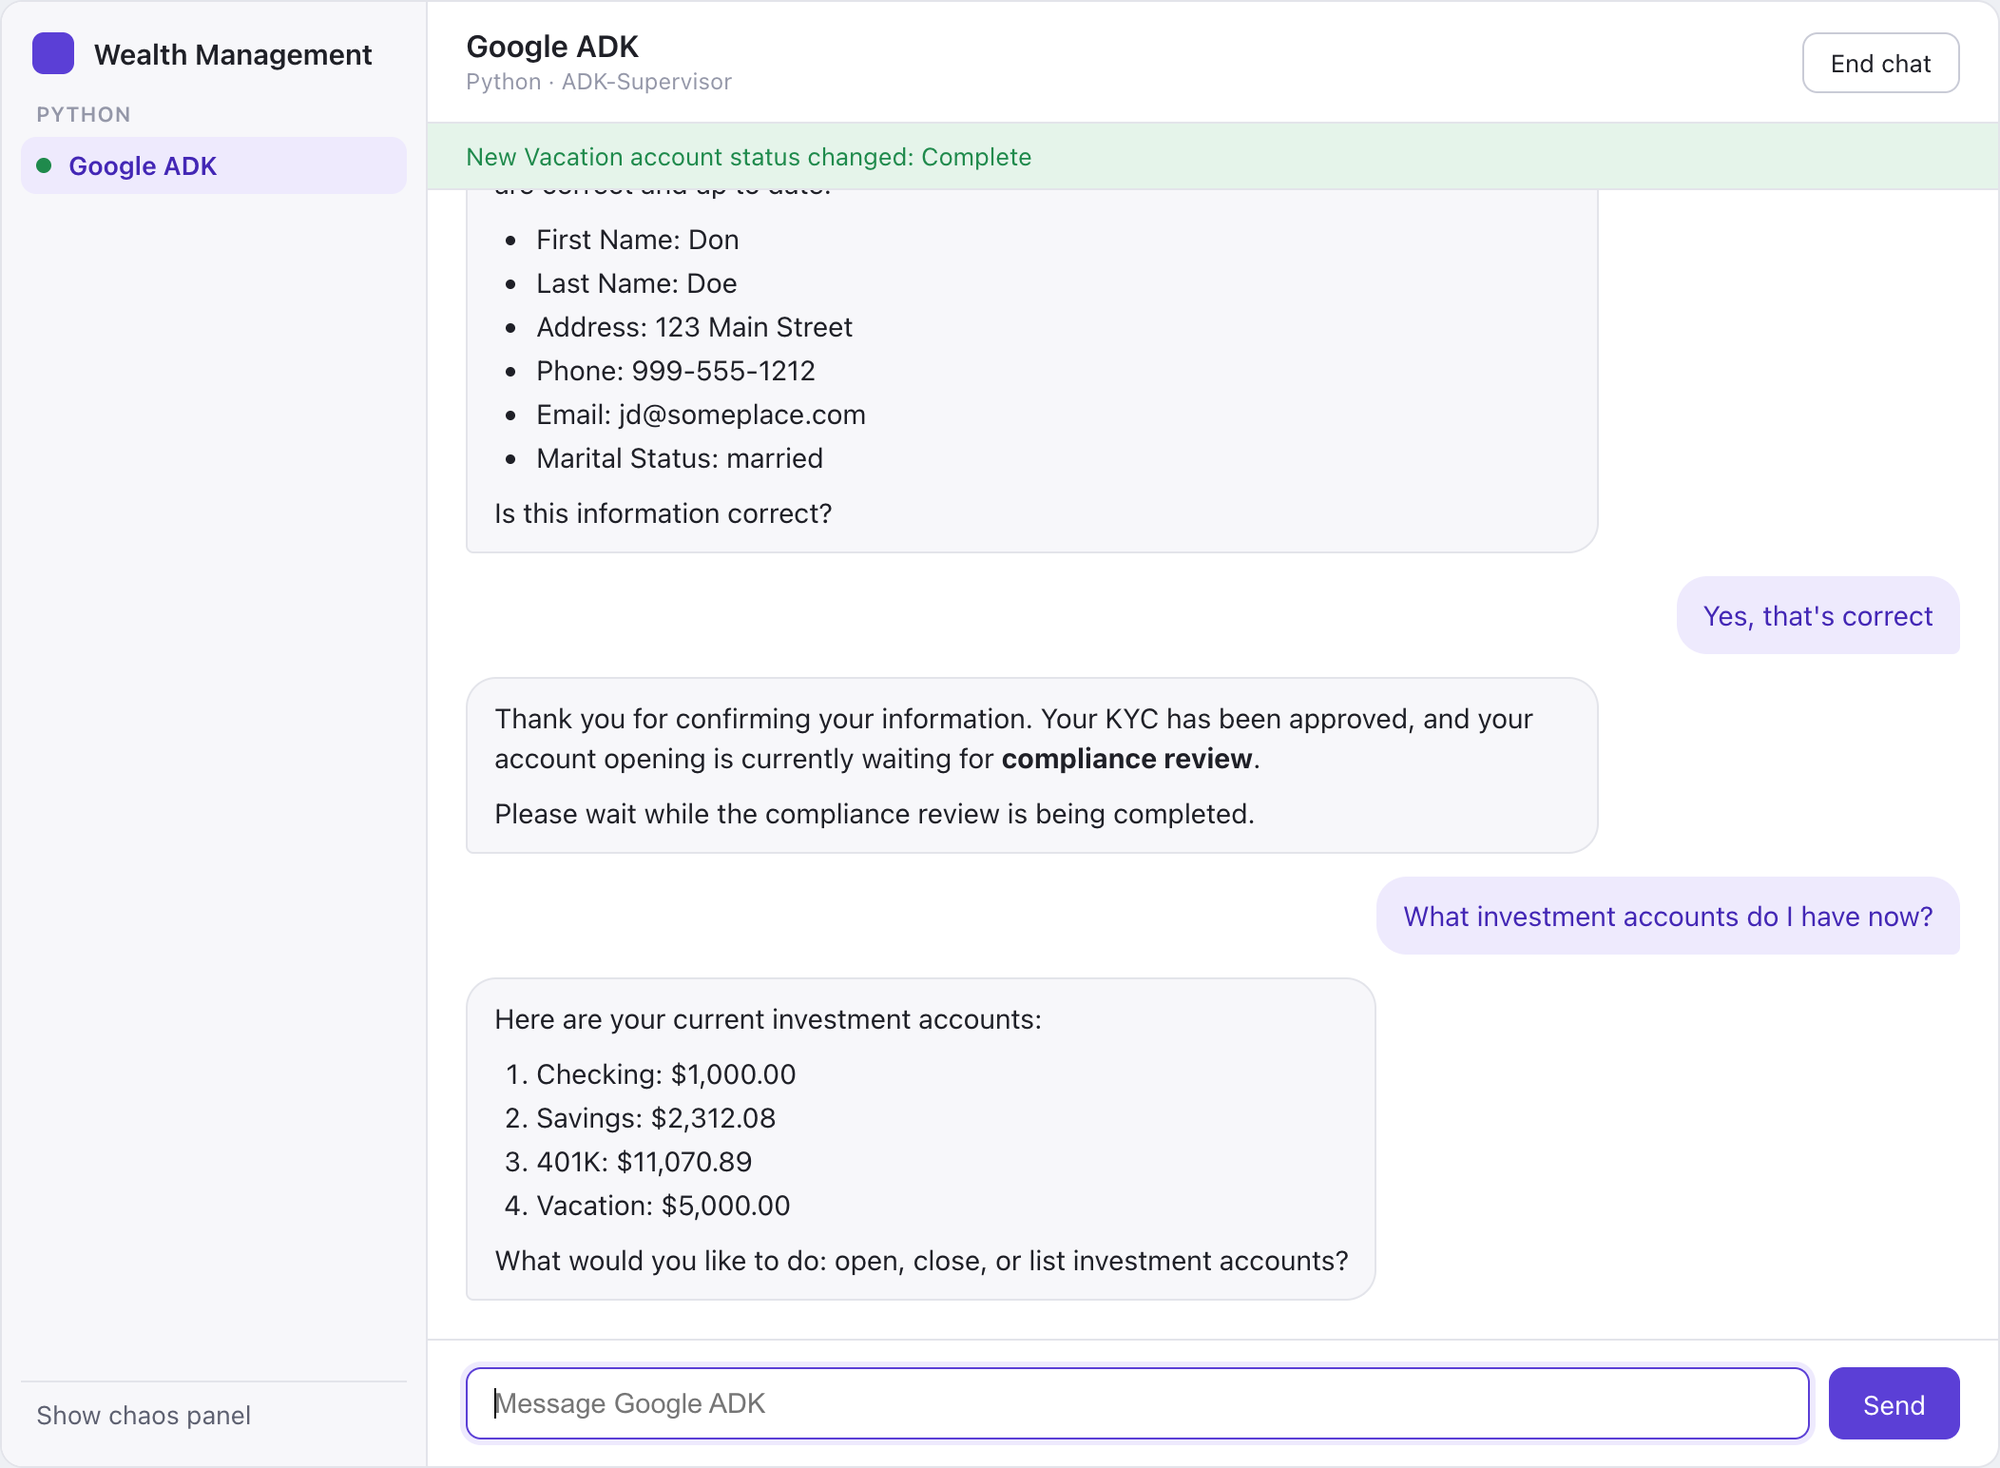
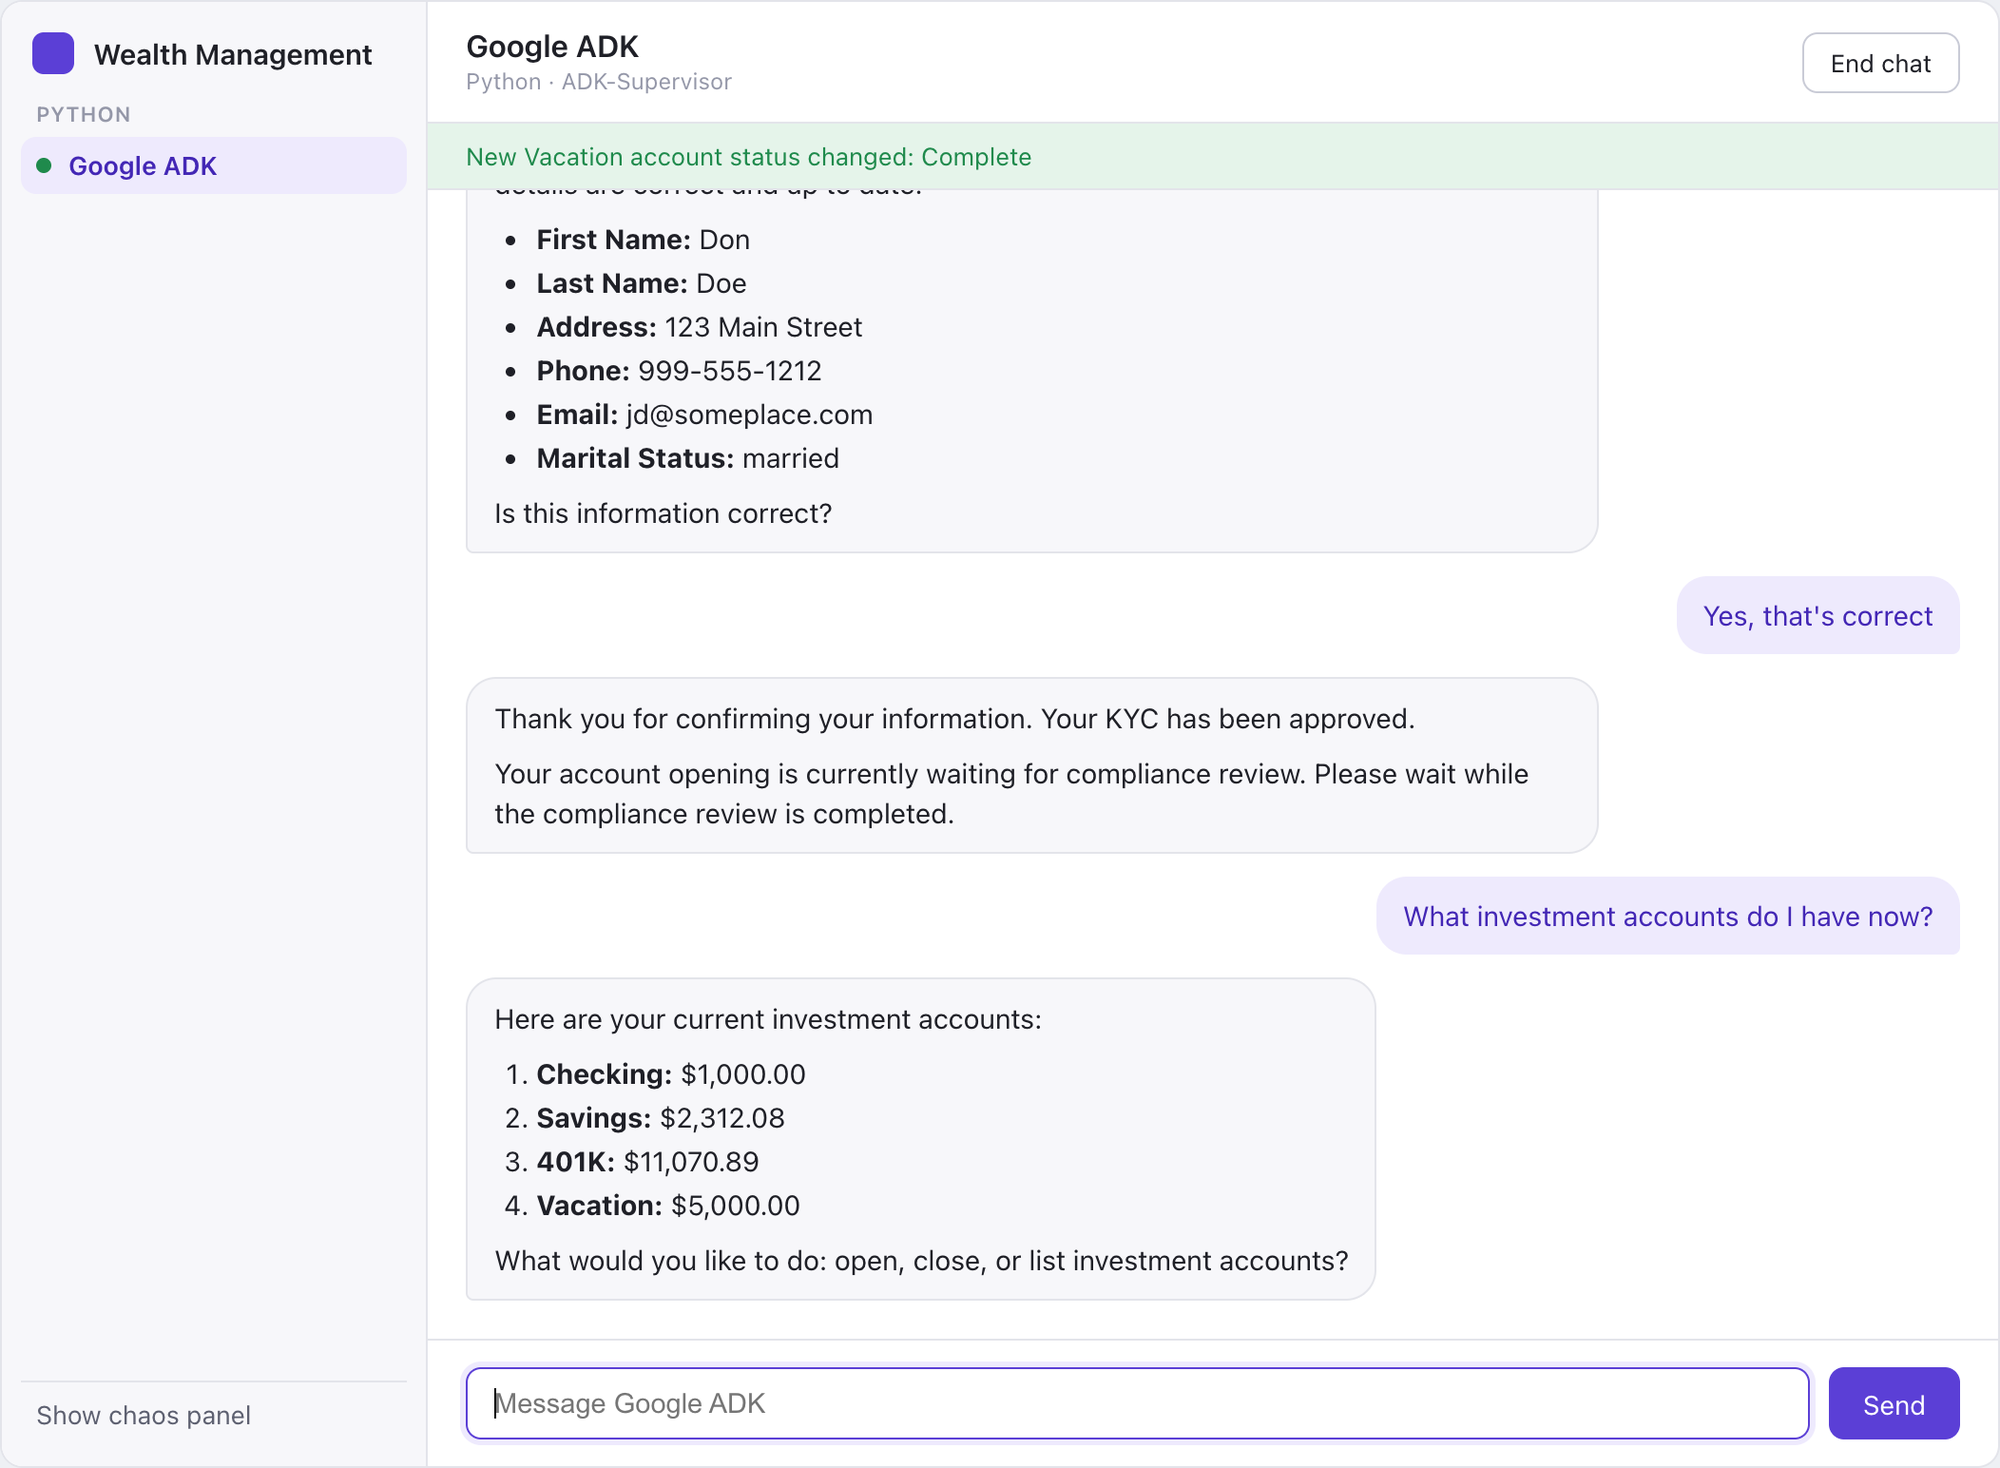
Bold names and labels in list replies, as the OpenAI Agents SDK version does
Google ADK (Python), Strands, Vercel and Pydantic AI now bold the account name, the beneficiary's name
and each customer detail's label in their lists (1. **Checking:** $1,000.00, 1. **John Doe** - Son,
- **Address:** 123 Main Street). Pydantic AI's KYC message, built in workflow code, does the same, and its
prompts now ask for comma thousands separators. Retakes those frameworks' web UI screenshots and updates
their standalone sample output.

diff --git a/src/typescript/vercel_ai/prompts/agent-constants.ts b/src/typescript/vercel_ai/prompts/agent-constants.ts
@@ -15,11 +15,12 @@ request.
 # Formatting
 Write your replies in Markdown, which the chat window renders:
 - Put a blank line before and after every list.
-- Show accounts and beneficiaries as a numbered list, one per line, for example "1. Checking: $1,000.00" or
-  "1. John Doe (son)". Format balances with comma thousands separators and two decimal places.
-- Show the customer's details, when asking them to confirm them, as a bulleted list with one detail per line,
-  for example "- Address: 123 Main Street".
-- Use **bold** only to make a key fact stand out. Don't use tables or headings.
+- Show accounts as a numbered list, one per line, with the account name in bold, for example
+  "1. **Checking:** $1,000.00". Format balances with comma thousands separators and two decimal places.
+- Show beneficiaries as a numbered list, one per line, with the name in bold, for example "1. **John Doe** - Son".
+- Show the customer's details, when asking them to confirm them, as a bulleted list with one detail per line
+  and its label in bold, for example "- **Address:** 123 Main Street".
+- Don't use tables or headings.
 
 `;
 
@@ -51,9 +52,9 @@ You are responsible for handling all aspects of investment accounts. This includ
    Show them as a numbered list, like this:
    "Here are your investment accounts:
 
-   1. Checking: $1,000.00
-   2. Savings: $2,312.08
-   3. 401K: $11,070.89"
+   1. **Checking:** $1,000.00
+   2. **Savings:** $2,312.08
+   3. **401K:** $11,070.89"
    Format balances with comma thousands separators and two decimal places.
 3. Ask if they would like to open an account, close an account, or list their accounts.
    ${openAccountLine}

diff --git a/src/python/pyai/prompts/agent_constants.py b/src/python/pyai/prompts/agent_constants.py
@@ -24,8 +24,8 @@ BENE_INSTRUCTIONS = f"""{RECOMMENDED_PROMPT_PREFIX}
     ```
     Here are your current beneficiaries:
 
-    1. [First Last] ([Relationship])
-    2. [First Last] ([Relationship])
+    1. **[First Last]** - [Relationship]
+    2. **[First Last]** - [Relationship]
 
     Would you like to add, delete or list your beneficiaries?
     ```
@@ -75,16 +75,16 @@ BENE_INSTRUCTIONS = f"""{RECOMMENDED_PROMPT_PREFIX}
       ```
       Here are your current beneficiaries:
 
-      1. [First Last] ([Relationship])
-      2. [First Last] ([Relationship])
+      1. **[First Last]** - [Relationship]
+      2. **[First Last]** - [Relationship]
 
       Would you like to add, delete or list your beneficiaries?
       ```
     - **CRITICAL FORMATTING RULES**:
       * MUST use numbered list format (1., 2., 3., etc.)
-      * Format MUST be: "[Number]. [First Last] ([Relationship])"
-      * DO NOT add the word "Relationship:" - just put the relationship in parentheses
-      * Example: "1. John Doe (son)" NOT "1. John Doe (Relationship: son)"
+      * Format MUST be: "[Number]. **[First Last]** - [Relationship]"
+      * DO NOT add the word "Relationship:" - just put the relationship after the dash
+      * Example: "1. **John Doe** - Son" NOT "1. John Doe (Relationship: son)"
       * MUST have blank line after "Here are your current beneficiaries:"
       * MUST have blank line before the question
       * DO NOT use comma-separated format
@@ -133,9 +133,9 @@ BENE_INSTRUCTIONS = f"""{RECOMMENDED_PROMPT_PREFIX}
     ```
     Here are your current beneficiaries:
 
-    1. John Doe (son)
-    2. Jane Doe (daughter)
-    3. Joan Doe (spouse)
+    1. **John Doe** - Son
+    2. **Jane Doe** - Daughter
+    3. **Joan Doe** - Spouse
 
     Would you like to add, delete or list your beneficiaries?
     ```
@@ -144,16 +144,16 @@ BENE_INSTRUCTIONS = f"""{RECOMMENDED_PROMPT_PREFIX}
     ```
     Here are your current beneficiaries:
 
-    1. John Doe (Relationship: son)  ❌ WRONG - do not add "Relationship:" label
-    2. Jane Doe (Relationship: daughter)  ❌ WRONG - just use (daughter)
+    1. **John Doe** - Relationship: Son  ❌ WRONG - do not add "Relationship:" label
+    2. **Jane Doe** - Relationship: Daughter  ❌ WRONG - just use - Daughter
     ```
 
     **Bad Example 2 - DO NOT DO THIS:**
     ```
     Here are your current beneficiaries:
 
-    1. John Doe (Spouse)
-    2. Jane Doe (Child)
+    1. **John Doe** - Spouse
+    2. **Jane Doe** - Child
 
     Would you like to add, update, delete or list your beneficiaries?  ❌ WRONG - "update" doesn't exist
     ```
@@ -169,8 +169,8 @@ INVEST_INSTRUCTIONS = f"""{RECOMMENDED_PROMPT_PREFIX}
     ```
     Here are your investment accounts:
 
-    1. [Name]: $[amount]
-    2. [Name]: $[amount]
+    1. **[Name]:** $[amount]
+    2. **[Name]:** $[amount]
 
     Would you like to open, close or list your investment accounts?
     ```
@@ -178,10 +178,11 @@ INVEST_INSTRUCTIONS = f"""{RECOMMENDED_PROMPT_PREFIX}
     **FORBIDDEN PHRASES**:
     - ❌ "You have" or "You currently have" → MUST say "Here are"
     - ❌ "the following investment accounts" → MUST say "your investment accounts"
-    - ❌ "Balance:" or "- Balance:" → MUST use colon format: "[Name]: $[amount]"
+    - ❌ "Balance:" or "- Balance:" → MUST use colon format: "**[Name]:** $[amount]"
     - ❌ Adding extra words like "account" after the name
     - ❌ Example of WRONG: "1. Checking - Balance: $1,000.00"
-    - ✓ Example of CORRECT: "1. Checking: $1,000.00"
+    - ✓ Example of CORRECT: "1. **Checking:** $1,000.00"
+    - Amounts MUST have comma thousands separators and two decimal places: "$11,070.89", never "$11070.89"
 
     ## ⚠ CRITICAL: ALWAYS USE FRESH TOOL CALLS ⚠
 
@@ -269,16 +270,17 @@ INVEST_INSTRUCTIONS = f"""{RECOMMENDED_PROMPT_PREFIX}
       ```
       Here are your investment accounts:
 
-      1. [Account Name]: $[amount]
-      2. [Account Name]: $[amount]
+      1. **[Account Name]:** $[amount]
+      2. **[Account Name]:** $[amount]
 
       Would you like to open, close or list your investment accounts?
       ```
     - **CRITICAL FORMATTING RULES - MUST FOLLOW EXACTLY**:
       * First line MUST be EXACTLY: "Here are your investment accounts:"
-      * Each account line MUST be: "[Number]. [Name]: $[amount]"
-      * Example: "1. Checking: $1,000.00" NOT "1. Checking account with balance of $1,000.00"
+      * Each account line MUST be: "[Number]. **[Name]:** $[amount]"
+      * Example: "1. **Checking:** $1,000.00" NOT "1. Checking account with balance of $1,000.00"
       * DO NOT use phrases like "account with", "with a balance", "balance of"
+      * Amounts MUST have comma thousands separators and two decimal places: "$11,070.89", never "$11070.89"
       * MUST have blank line after "Here are your investment accounts:"
       * MUST have blank line before the question
       * End with EXACTLY: "Would you like to open, close or list your investment accounts?"
@@ -323,9 +325,9 @@ INVEST_INSTRUCTIONS = f"""{RECOMMENDED_PROMPT_PREFIX}
     ```
     Here are your investment accounts:
 
-    1. Checking: $1,000.00
-    2. Savings: $2,312.08
-    3. 401K: $11,070.89
+    1. **Checking:** $1,000.00
+    2. **Savings:** $2,312.08
+    3. **401K:** $11,070.89
 
     Would you like to open, close or list your investment accounts?
     ```
@@ -349,8 +351,8 @@ INVEST_INSTRUCTIONS = f"""{RECOMMENDED_PROMPT_PREFIX}
     ```
     Here are your investment accounts:
 
-    1. Checking: $1,000.00
-    2. Savings: $2,312.08
+    1. **Checking:** $1,000.00
+    2. **Savings:** $2,312.08
 
     Would you like to open, close, manage or list your investment accounts?  ❌ WRONG - "manage" doesn't exist
     ```

diff --git a/src/python/strands_agents/prompts/agent_constants.py b/src/python/strands_agents/prompts/agent_constants.py
@@ -15,11 +15,12 @@ REPLY_FORMAT = """
     # Formatting
     Write your replies in Markdown, which the chat window renders:
     - Put a blank line before and after every list.
-    - Show accounts and beneficiaries as a numbered list, one per line, for example "1. Checking: $1,000.00" or
-      "1. John Doe (son)". Format balances with comma thousands separators and two decimal places.
-    - Show the customer's details, when asking them to confirm them, as a bulleted list with one detail per line,
-      for example "- Address: 123 Main Street".
-    - Use **bold** only to make a key fact stand out. Don't use tables or headings.
+    - Show accounts as a numbered list, one per line, with the account name in bold, for example
+      "1. **Checking:** $1,000.00". Format balances with comma thousands separators and two decimal places.
+    - Show beneficiaries as a numbered list, one per line, with the name in bold, for example "1. **John Doe** - Son".
+    - Show the customer's details, when asking them to confirm them, as a bulleted list with one detail per line
+      and its label in bold, for example "- **Address:** 123 Main Street".
+    - Don't use tables or headings.
     - When you relay another agent's answer, keep its formatting as is."""
 
 # Beneficiary Constants
@@ -68,12 +69,12 @@ INVEST_INSTRUCTIONS = """You are an investment agent. You were likely delegated 
     Step 2: Immediately call list_investments with the client ID.
     - Do this as soon as you have the client ID — do NOT wait for further instructions.
     - Present the account names and balances to the customer. Store the investment IDs internally but never show them.
-    - Present the accounts as a numbered list, each as "<name>: $<balance>", with the balance
+    - Present the accounts as a numbered list, each as "**<name>:** $<balance>", with the balance
       formatted with comma thousands separators and two decimal places, for example:
       Here are your investment accounts:
 
-      1. Checking: $1,000.00
-      2. Savings: $2,312.08
+      1. **Checking:** $1,000.00
+      2. **Savings:** $2,312.08
 
     Step 3: Carry out what the customer asked: open, close, or list investment accounts.
     - Opening: you need an account name and an initial balance, then call open_investment.
@@ -132,12 +133,12 @@ TEMPORAL_INVEST_SUBAGENT_INSTRUCTIONS = """You are an investment agent. You were
     - Answering your question about closing an account: if the customer says yes, call close_investment again
       with the same investment ID, without listing first. If they say no, tell them the account was not closed.
       This is not about opening an account, so don't call open_account_assistant.
-      Present the accounts as a numbered list, each as "<name>: $<balance>", with the balance
+      Present the accounts as a numbered list, each as "**<name>:** $<balance>", with the balance
       formatted with comma thousands separators and two decimal places, for example:
       Here are your investment accounts:
 
-      1. Checking: $1,000.00
-      2. Savings: $2,312.08
+      1. **Checking:** $1,000.00
+      2. **Savings:** $2,312.08
 
     If a requested operation has no available tool, say it cannot be completed at this time.
     Always answer concisely with the final result of the operation. After closing or listing, tell the customer

diff --git a/src/python/google_adk/prompts/agent_constants.py b/src/python/google_adk/prompts/agent_constants.py
@@ -17,11 +17,12 @@ transfer to answers the customer's request.
 # Formatting
 Write your replies in Markdown, which the chat window renders:
 - Put a blank line before and after every list.
-- Show accounts and beneficiaries as a numbered list, one per line, for example "1. Checking: $1,000.00" or
-  "1. John Doe (son)". Format balances with comma thousands separators and two decimal places.
-- Show the customer's details, when asking them to confirm them, as a bulleted list with one detail per line,
-  for example "- Address: 123 Main Street".
-- Use **bold** only to make a key fact stand out. Don't use tables or headings.
+- Show accounts as a numbered list, one per line, with the account name in bold, for example
+  "1. **Checking:** $1,000.00". Format balances with comma thousands separators and two decimal places.
+- Show beneficiaries as a numbered list, one per line, with the name in bold, for example "1. **John Doe** - Son".
+- Show the customer's details, when asking them to confirm them, as a bulleted list with one detail per line
+  and its label in bold, for example "- **Address:** 123 Main Street".
+- Don't use tables or headings.
 
 """
 

diff --git a/src/python/pyai/pyai_agents/agents.py b/src/python/pyai/pyai_agents/agents.py
@@ -539,12 +539,12 @@ async def respond_about_account_opening(ctx: RunContext[AgentDependencies], resp
             # 3. Format response with actual KYC info
             response = f"""I've started opening your {account_info.account_name} account. Let me verify your information:
 
-- First Name: {client.first_name}
-- Last Name: {client.last_name}
-- Address: {client.address}
-- Phone: {client.phone}
-- Email: {client.email}
-- Marital Status: {client.marital_status}
+- **First Name:** {client.first_name}
+- **Last Name:** {client.last_name}
+- **Address:** {client.address}
+- **Phone:** {client.phone}
+- **Email:** {client.email}
+- **Marital Status:** {client.marital_status}
 
 Is this information correct and up to date? Please confirm.
 

diff --git a/src/python/pyai/standalone/README.md b/src/python/pyai/standalone/README.md
@@ -64,18 +64,18 @@ To help you with your beneficiaries, could you please provide your client ID?
 [Supervisor Agent] Enter your message: 123
 Here are your current beneficiaries:
 
-1. John Doe (son)
-2. Jane Doe (daughter)
-3. Joan Doe (spouse)
+1. **John Doe** - Son
+2. **Jane Doe** - Daughter
+3. **Joan Doe** - Spouse
 
 Would you like to add, delete or list your beneficiaries?
 
 [Beneficiary Agent] Enter your message: What investments do I have?
 Here are your current investment accounts:
 
-1. Checking: $1,000.00
-2. Savings: $2,312.08
-3. 401K: $11,070.89
+1. **Checking:** $1,000.00
+2. **Savings:** $2,312.08
+3. **401K:** $11,070.89
 
 Would you like to open, close or list your investment accounts?
 

diff --git a/src/typescript/vercel_ai/standalone/README.md b/src/typescript/vercel_ai/standalone/README.md
@@ -60,9 +60,10 @@ Enter your message: 123
 Handed off from Supervisor Agent to Beneficiary Agent
 
 Beneficiary Agent: Here are your beneficiaries:
-* John Doe (son)
-* Jane Doe (daughter)
-* Joan Doe (spouse)
+
+1. **John Doe** - Son
+2. **Jane Doe** - Daughter
+3. **Joan Doe** - Spouse
 
 Would you like to add, delete, or list your beneficiaries?
 
@@ -72,9 +73,9 @@ Handed off from Supervisor Agent to Investment Agent
 
 Investment Agent: Here are your investment accounts:
 
-1. Checking: $1,000.00
-2. Savings: $2,312.08
-3. 401K: $11,070.89
+1. **Checking:** $1,000.00
+2. **Savings:** $2,312.08
+3. **401K:** $11,070.89
 
 Would you like to open an account, close an account, or list your accounts?
 

diff --git a/src/python/strands_agents/standalone/README.md b/src/python/strands_agents/standalone/README.md
@@ -79,17 +79,19 @@ Assistant: I can help with that. What is your client ID?
 
 You: 123
 
-Assistant: Your current beneficiaries are:
-- John Doe (son)
-- Jane Doe (daughter)
-- Joan Doe (spouse)
+Assistant: Here are your beneficiaries:
+
+1. **John Doe** - Son
+2. **Jane Doe** - Daughter
+3. **Joan Doe** - Spouse
 
 You: What investments do I have?
 
-Assistant: Your investment accounts are:
-- Checking: $1000.00
-- Savings: $2312.08
-- 401K: $11070.89
+Assistant: Here are your investment accounts:
+
+1. **Checking:** $1,000.00
+2. **Savings:** $2,312.08
+3. **401K:** $11,070.89
 
 You: end
 Goodbye!

diff --git a/src/python/google_adk/standalone/README.md b/src/python/google_adk/standalone/README.md
@@ -68,9 +68,9 @@ You: 123
 
 Assistant: Here are your beneficiaries:
 
-1. John Doe (son)
-2. Jane Doe (daughter)
-3. Joan Doe (spouse)
+1. **John Doe** - Son
+2. **Jane Doe** - Daughter
+3. **Joan Doe** - Spouse
 
 What would you like to do: add, delete, or list beneficiaries?
 
@@ -78,9 +78,9 @@ You: What investments do I have?
 
 Assistant: Here are your investment accounts:
 
-1. Checking: $1,000.00
-2. Savings: $2,312.08
-3. 401K: $11,070.89
+1. **Checking:** $1,000.00
+2. **Savings:** $2,312.08
+3. **401K:** $11,070.89
 
 What would you like to do: open, close, or list investment accounts?
 
